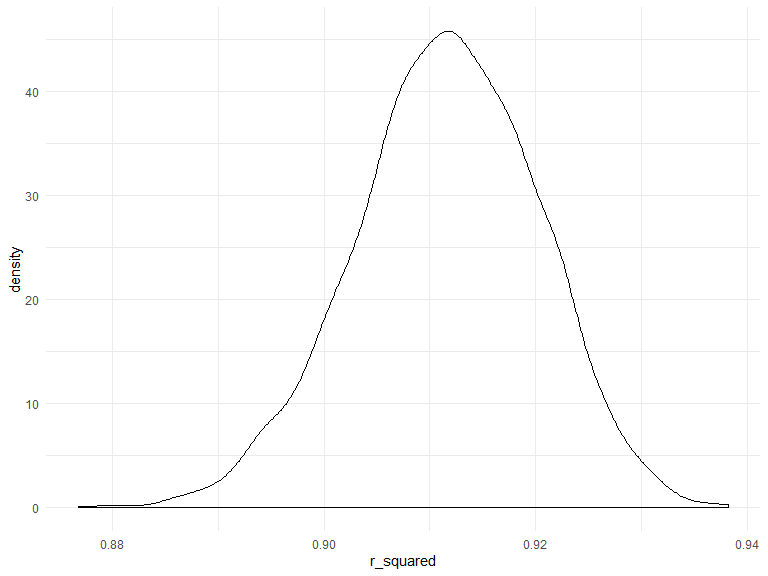
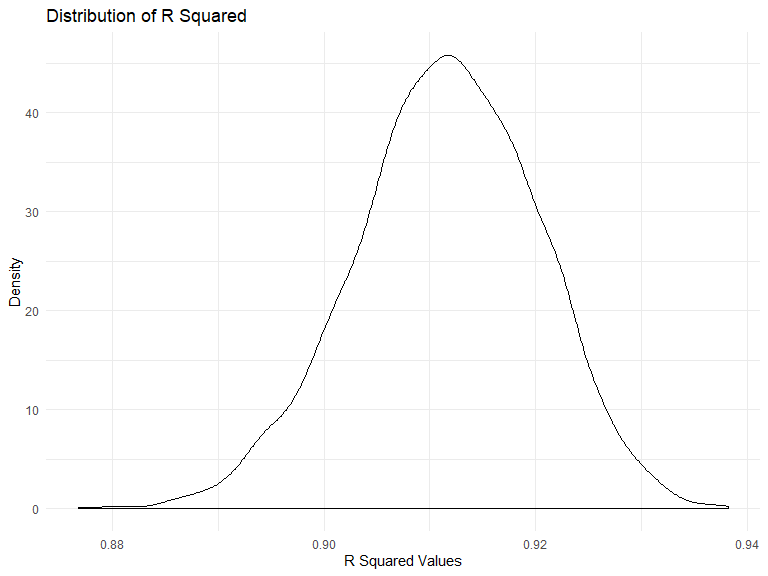
finished coding.

diff --git a/p8105_hw6_kmw2189.md b/p8105_hw6_kmw2189.md
@@ -234,20 +234,52 @@ Plot the distribution of your estimates
 
 ``` r
 bootstrap_df %>%
-  ggplot(aes(x = r_squared)) + geom_density()
+  ggplot(aes(x = r_squared)) + 
+  geom_density() +
+  labs(
+      title = "Distribution of R Squared",
+      x = "R Squared Values",
+      y = "Density"
+  )
 ```
 
 <img src="p8105_hw6_kmw2189_files/figure-gfm/unnamed-chunk-2-1.png" width="90%" />
 
 ``` r
 bootstrap_df %>% 
-  ggplot(aes(x = beta_log)) + geom_density()
+  ggplot(aes(x = beta_log)) + 
+  geom_density() +
+    labs(
+      title = "Distribution of Log (Beta 0 * Beta 1)",
+      x = "Log (Beta 0 * Beta 1)",
+      y = "Density"
+  )
 ```
 
 <img src="p8105_hw6_kmw2189_files/figure-gfm/unnamed-chunk-2-2.png" width="90%" />
 
-mutate( r\_squared = as.vector(r\_squared) ) %\>% summarize( conf\_intr
-= quantile(r\_squared, probs=c(0.025, 0.975), na.rm=TRUE) )
+Both the distribution of the r squared values and the log of Beta 0 x
+Beta 1 appear to be normal. A linear regressionwould be appropriate to
+use with the data.
 
-Generate the r^2 and log(β<sup>0∗β</sup>1) values to use for the 2.5%
-and 97.5% confidence intervals.
+Using the 5000 bootstrap estimates, identify the 2.5% and 97.5%
+quantiles to provide a 95% confidence interval for r^2 and
+log(β<sup>0∗β</sup>1)
+
+``` r
+summary_vars_df = 
+  bootstrap_df %>%
+  mutate(
+    r_squared = as.vector(r_squared),
+    beta_log = as.vector(beta_log)
+  ) %>% 
+  summarize(
+    r_squared_low = quantile(r_squared, probs = (0.025), na.rm=TRUE), 
+    r_squared_high = quantile(r_squared, probs = (0.975), na.rm=TRUE), 
+    log_beta_low = quantile(beta_log, probs = (0.025), na.rm=TRUE),
+    log_beta_high = quantile(beta_log, probs = (0.975), na.rm=TRUE)
+  )
+```
+
+The 95% confidence interval for r squared is 0.89 to 0.93 and the 95%
+confidence interval for log(β<sup>0∗β</sup>1) is 1.96 to 2.06
